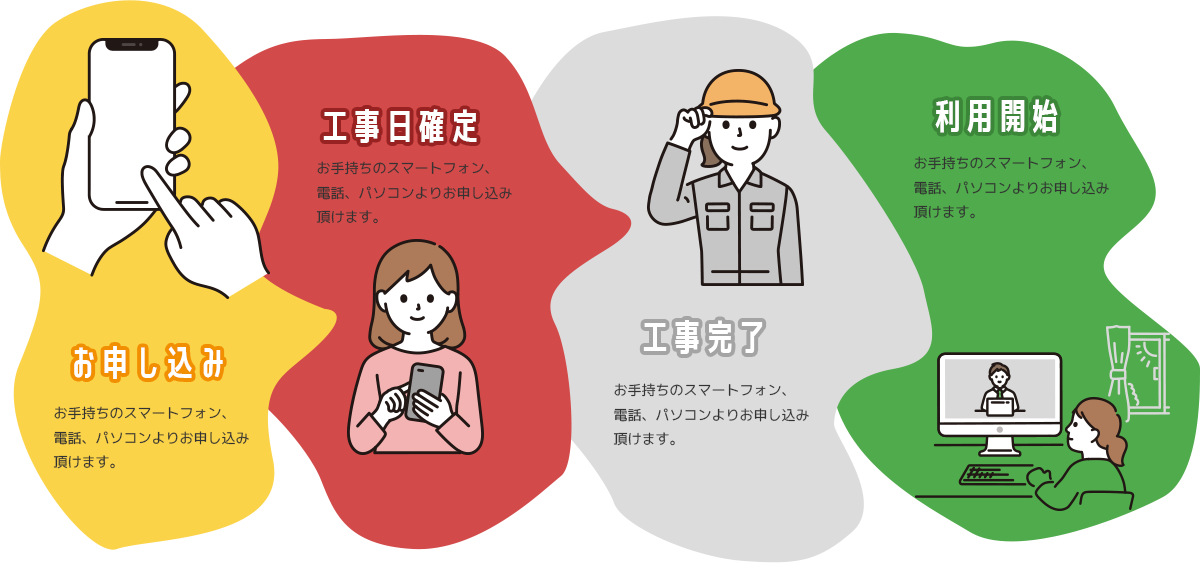
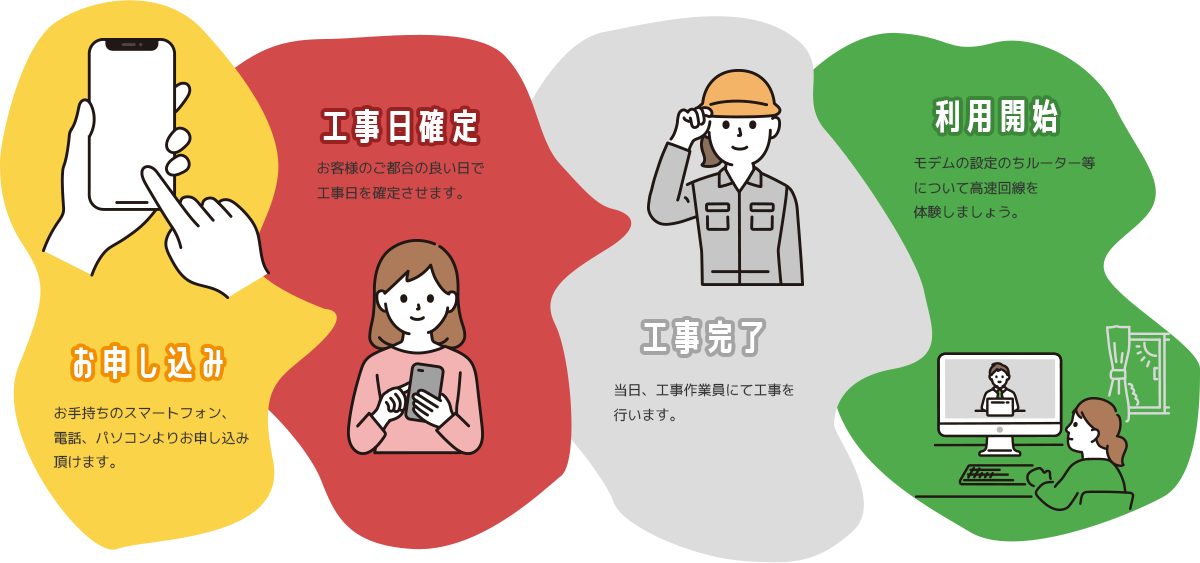
map design modification

Changed region(s): [[0.74, 0.2718, 0.925, 0.3925], [0.4933, 0.6643, 0.6783, 0.7851], [0.2467, 0.2718, 0.4317, 0.3925]]

diff --git a/htdocs/css/style_lp.scss b/htdocs/css/style_lp.scss
@@ -715,21 +715,24 @@ footer {
         width: calc(90% - 200px);
         margin: 100px auto 0;
         position: relative;
-        height: 30vw;
+        height: 35vw;
+        max-height: 400px;
         h2{
             font-size: 30px;
             font-weight: 600;
             text-align: center;
             margin-top: 30px;
+            position: relative;
+            z-index: 2;
         }
         img{
             position: absolute;
-            top: 70px;
+            top: 30px;
             left: 0;
             right: 0;
-            margin: auto;
-            max-width: 1200px;
-            width: 100%;
+            display: block;
+            width: 1200px;
+            z-index: 1;
         }
     }
 }

diff --git a/htdocs/css/style_lp.css b/htdocs/css/style_lp.css
@@ -618,20 +618,23 @@ footer {
   width: calc(90% - 200px);
   margin: 100px auto 0;
   position: relative;
-  height: 30vw; }
+  height: 35vw;
+  max-height: 400px; }
   #summary #flow h2, #footerForm #flow h2 {
     font-size: 30px;
     font-weight: 600;
     text-align: center;
-    margin-top: 30px; }
+    margin-top: 30px;
+    position: relative;
+    z-index: 2; }
   #summary #flow img, #footerForm #flow img {
     position: absolute;
-    top: 70px;
+    top: 30px;
     left: 0;
     right: 0;
-    margin: auto;
-    max-width: 1200px;
-    width: 100%; }
+    display: block;
+    width: 1200px;
+    z-index: 1; }
 
 /*-----question-----*/
 #question {
